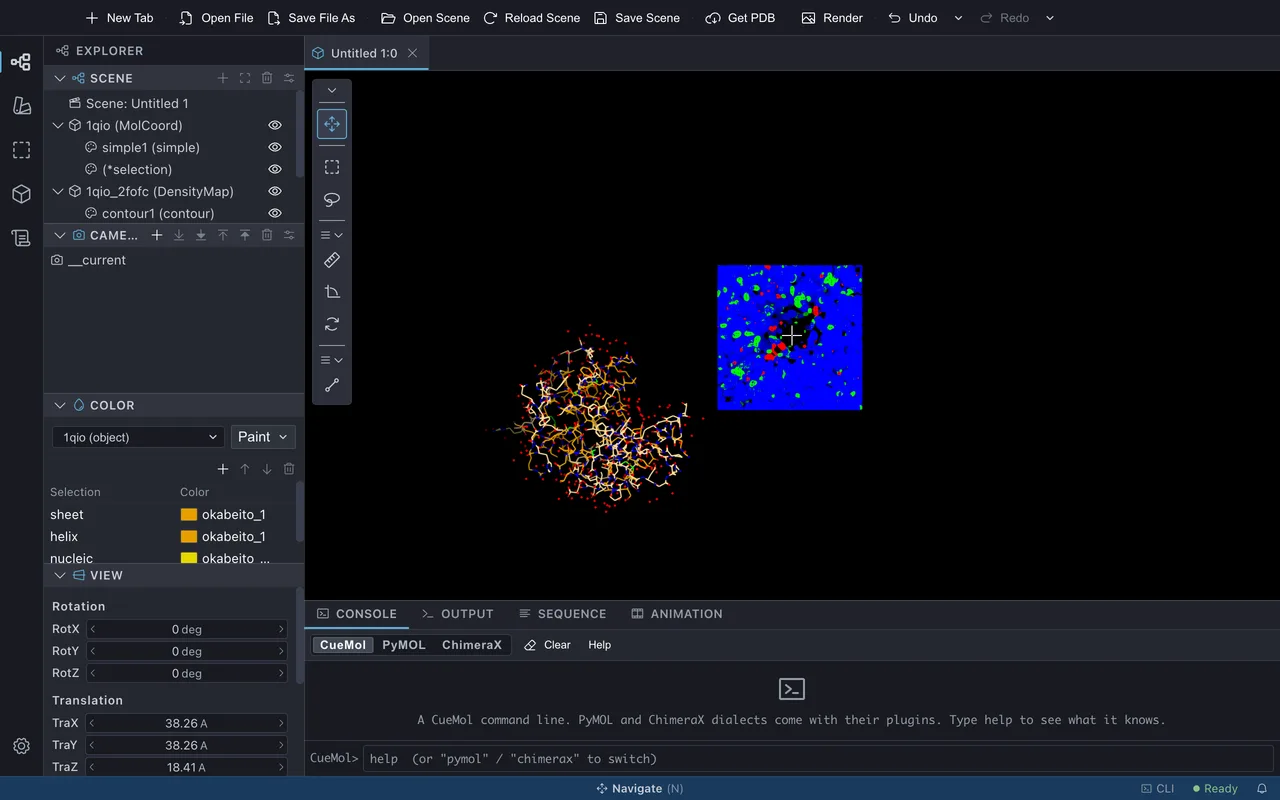
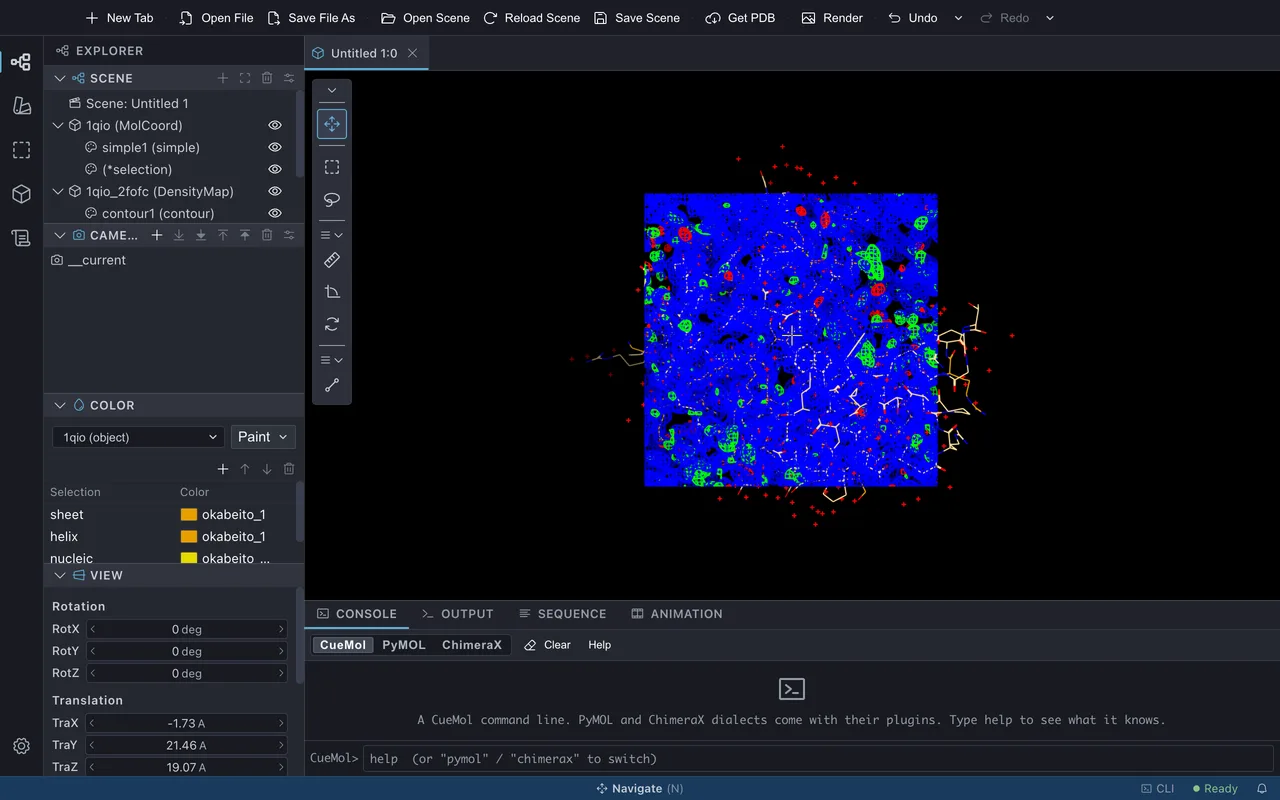
Reshoot the density map tutorial on CueMol3 3.0.7.578
The fetched maps are now drawn around the view centre, so the loaded view shows the map over the model. Record the command checks done on 3.0.7.578.

Changed region(s): [[0.4062, 0.2188, 0.7812, 0.6562], [0.125, 0.875, 0.1562, 0.9688]]

diff --git a/CLAUDE.md b/CLAUDE.md
@@ -621,6 +621,11 @@ Version 表示と同じ値なので、ユーザーは手元のビルドと直接
   Animation パネルのインスペクタと全体の長さ、Trajectory パネルのヘッダの折り返し (more メニュー)、ffmpeg の取得元、
   local-api.json、`add_paint` の 2 回目で 1 回目の色が保たれる件、依存の更新。
   `reference/settings.md` の Plugins の表 (MD Tools で増えるもの) は要約なので Console のコマンドを足していない。
+  同期の後、3.0.7.578 で確かめた: superpose / alphafold / ribbon-figure / protein-dna の「同じことをコマンドで」を
+  tritium_cli で流し、RMSD (7.13 / 1.98 / 0.51 Å)・`2ocj/cartoon2`・選択が残らないこと・スクリプトの末尾の
+  `save_scene` での保存 (後ろに続けるとエラー) が本文どおり。`set_anim_prop` の名前の検証と `list_anim_props`、
+  MD トラジェクトリの 5 コマンド (Dropbox の `test_data/traj_test` の psf + dcd) と History への記録も確認した。
+  density-map の spec を流して `2-loaded` などを撮り直した (4 件 pass)。
 
 ## E2E 検証と画像生成 (docs-verify/)
 
